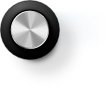
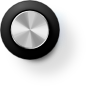
Restrict toggle drawing area; Some new graphics

diff --git a/src/custom_ctl.cpp b/src/custom_ctl.cpp
@@ -346,16 +346,22 @@ calf_toggle_expose (GtkWidget *widget, GdkEventExpose *event)
     
     CalfToggle *self = CALF_TOGGLE(widget);
     
+    int x = widget->allocation.x + widget->allocation.width / 2 - self->size * 15 - self->size * 2;
+    int y = widget->allocation.y + widget->allocation.height / 2 - self->size * 10 - self->size * 3;
+    int width = self->size * 34;
+    int height = self->size * 26;
+    
     gdk_draw_pixbuf(GDK_DRAWABLE(widget->window),
                     widget->style->fg_gc[0],
                     CALF_TOGGLE_CLASS(GTK_OBJECT_GET_CLASS(widget))->toggle_image[self->size - 1],
-                    0,
-                    (self->size * 20 + 40) * floor(.5 + gtk_range_get_value(GTK_RANGE(widget))),
-                    widget->allocation.x + widget->allocation.width / 2 - self->size * 15 - 20,
-                    widget->allocation.y + widget->allocation.height / 2 - self->size * 10 - 20,
-                    40 + self->size * 30,
-                    40 + self->size * 20,
+                    20 - self->size * 2,
+                    20 - self->size * 3 + (self->size * 20 + 40) * floor(.5 + gtk_range_get_value(GTK_RANGE(widget))),
+                    x,
+                    y,
+                    width,
+                    height,
                     GDK_RGB_DITHER_NORMAL, 0, 0);
+                    
     //if (gtk_widget_is_focus(widget))
     //{
         //gtk_paint_focus(widget->style, window, GTK_STATE_NORMAL, NULL, widget, NULL, ox, oy, width, height);
@@ -440,10 +446,10 @@ static gboolean calf_toggle_value_changed(gpointer obj)
     GtkWidget *widget = (GtkWidget *)obj;
     CalfToggle *self = CALF_TOGGLE(widget);
     gtk_widget_queue_draw_area(widget,
-                               widget->allocation.x - 20,
-                               widget->allocation.y - 20,
-                               40 + self->size * 30,
-                               40 + self->size * 20);
+                               widget->allocation.x - self->size * 2,
+                               widget->allocation.y - self->size * 3,
+                               self->size * 34,
+                               self->size * 26);
     return FALSE;
 }
 
